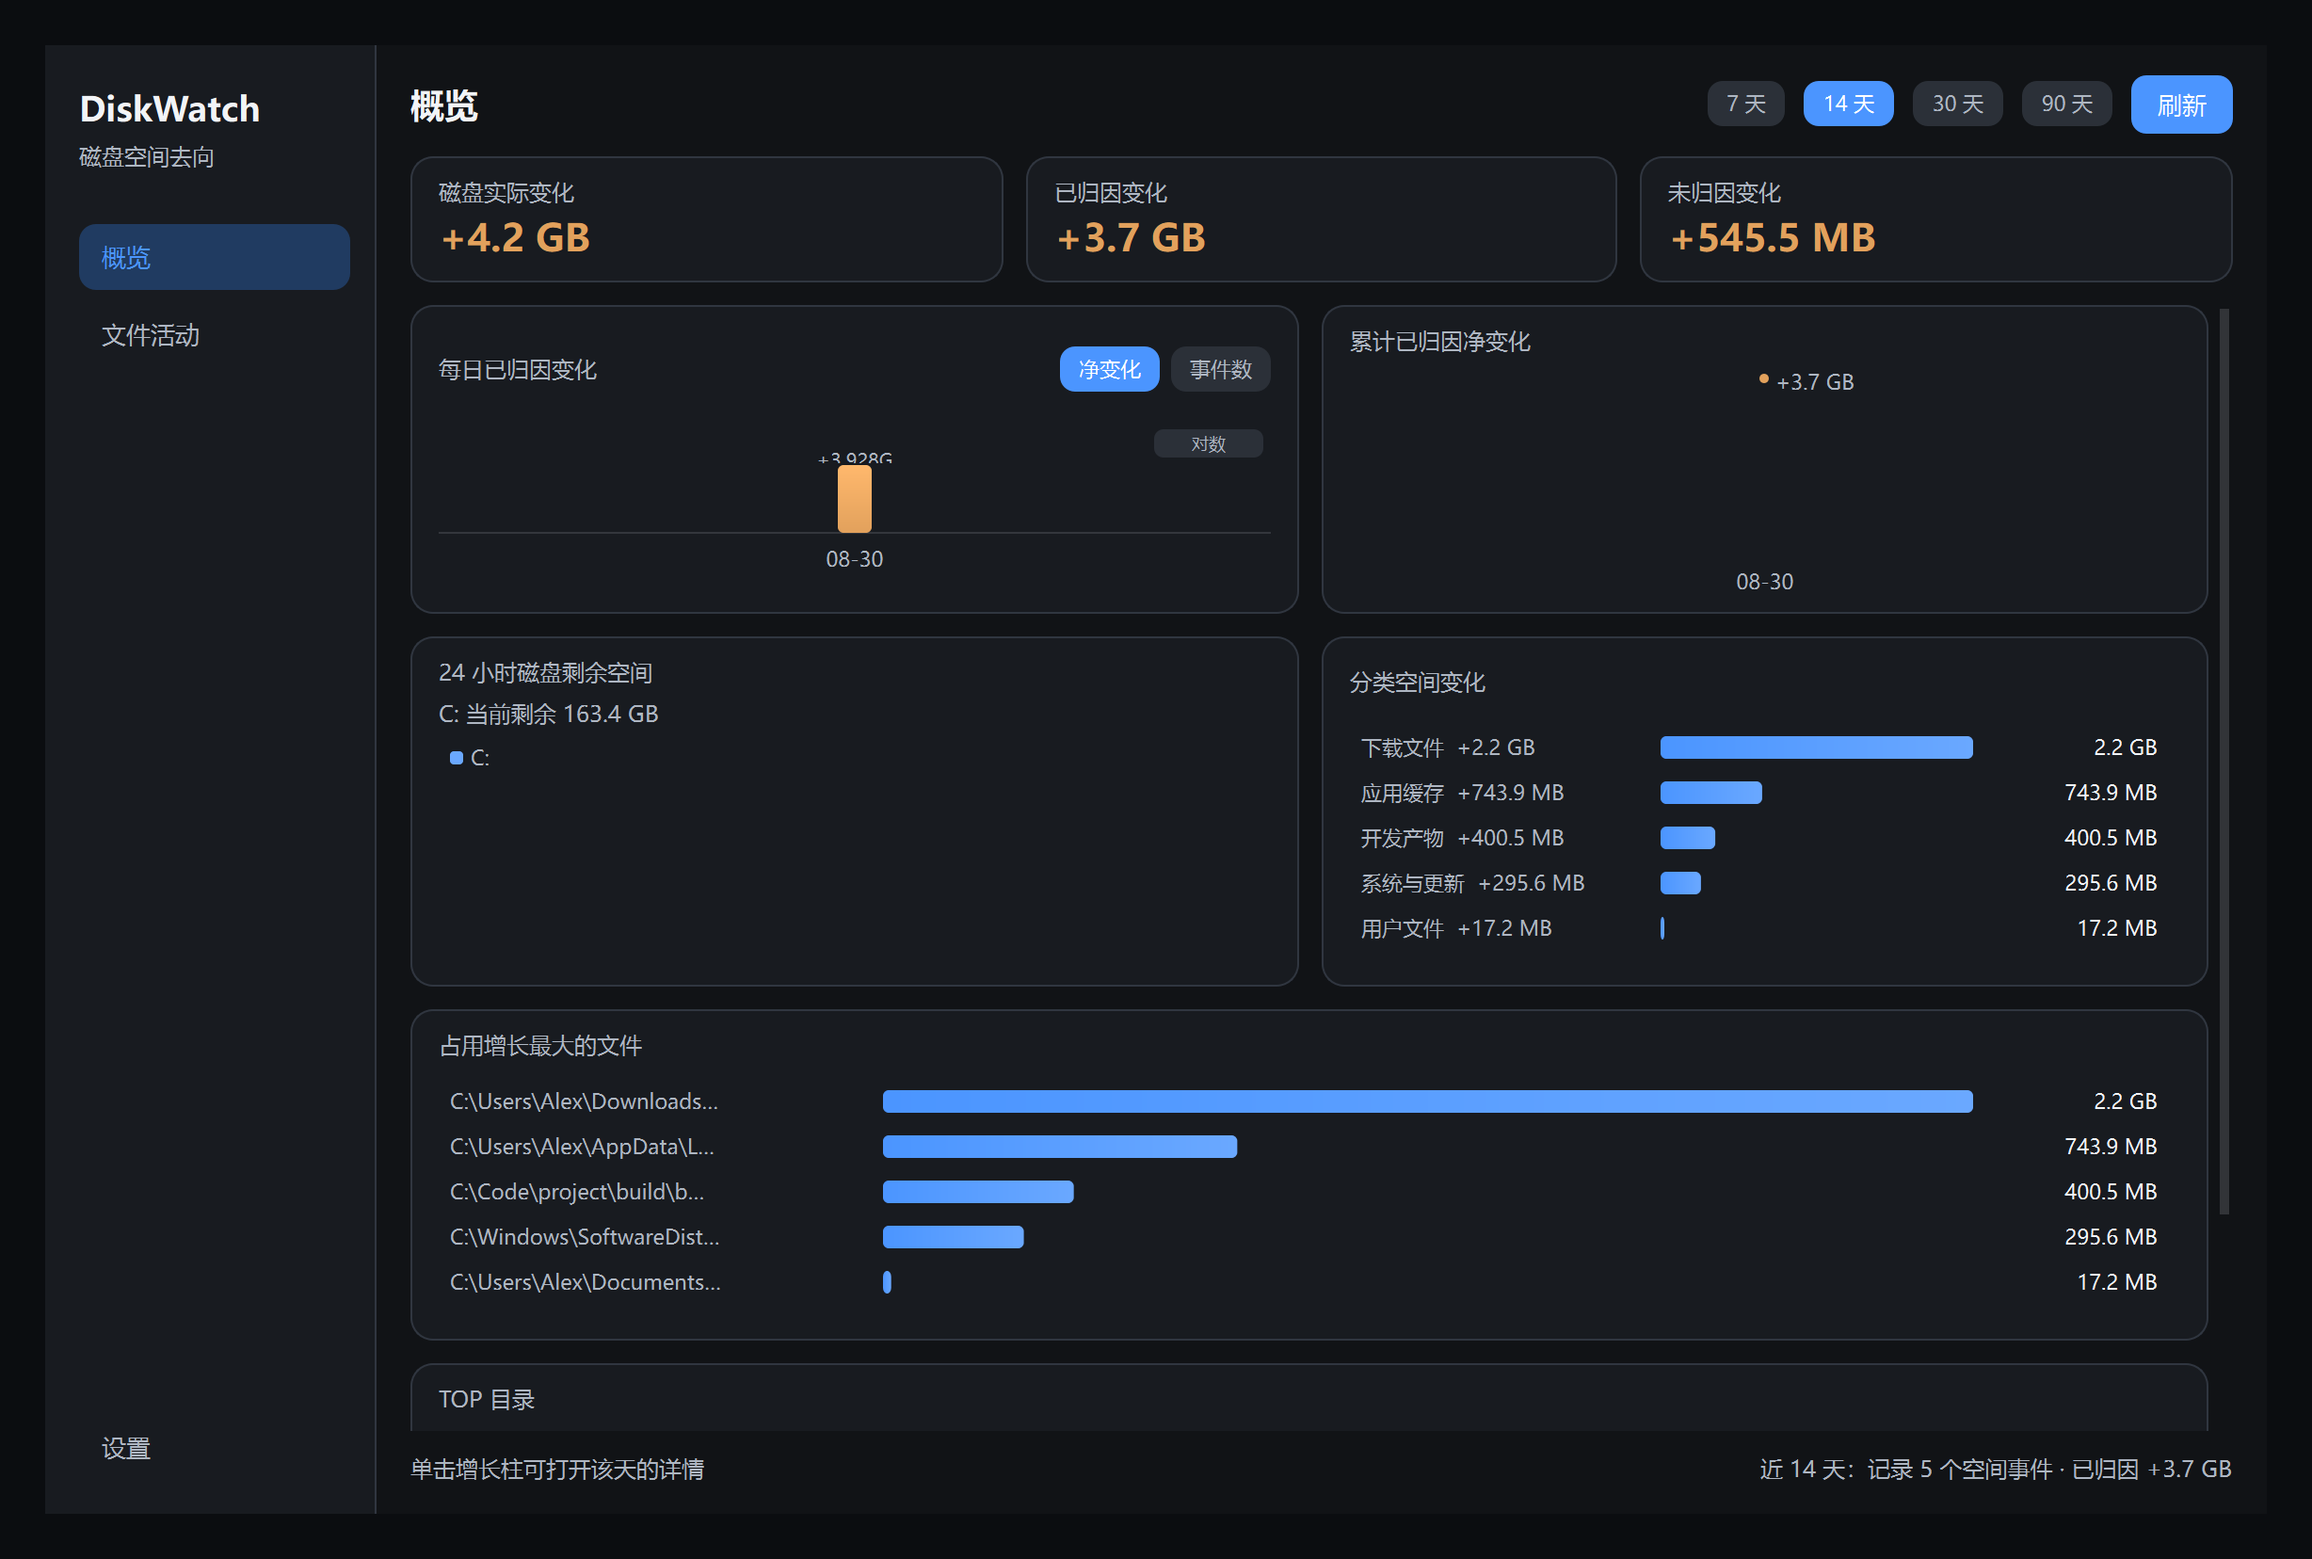
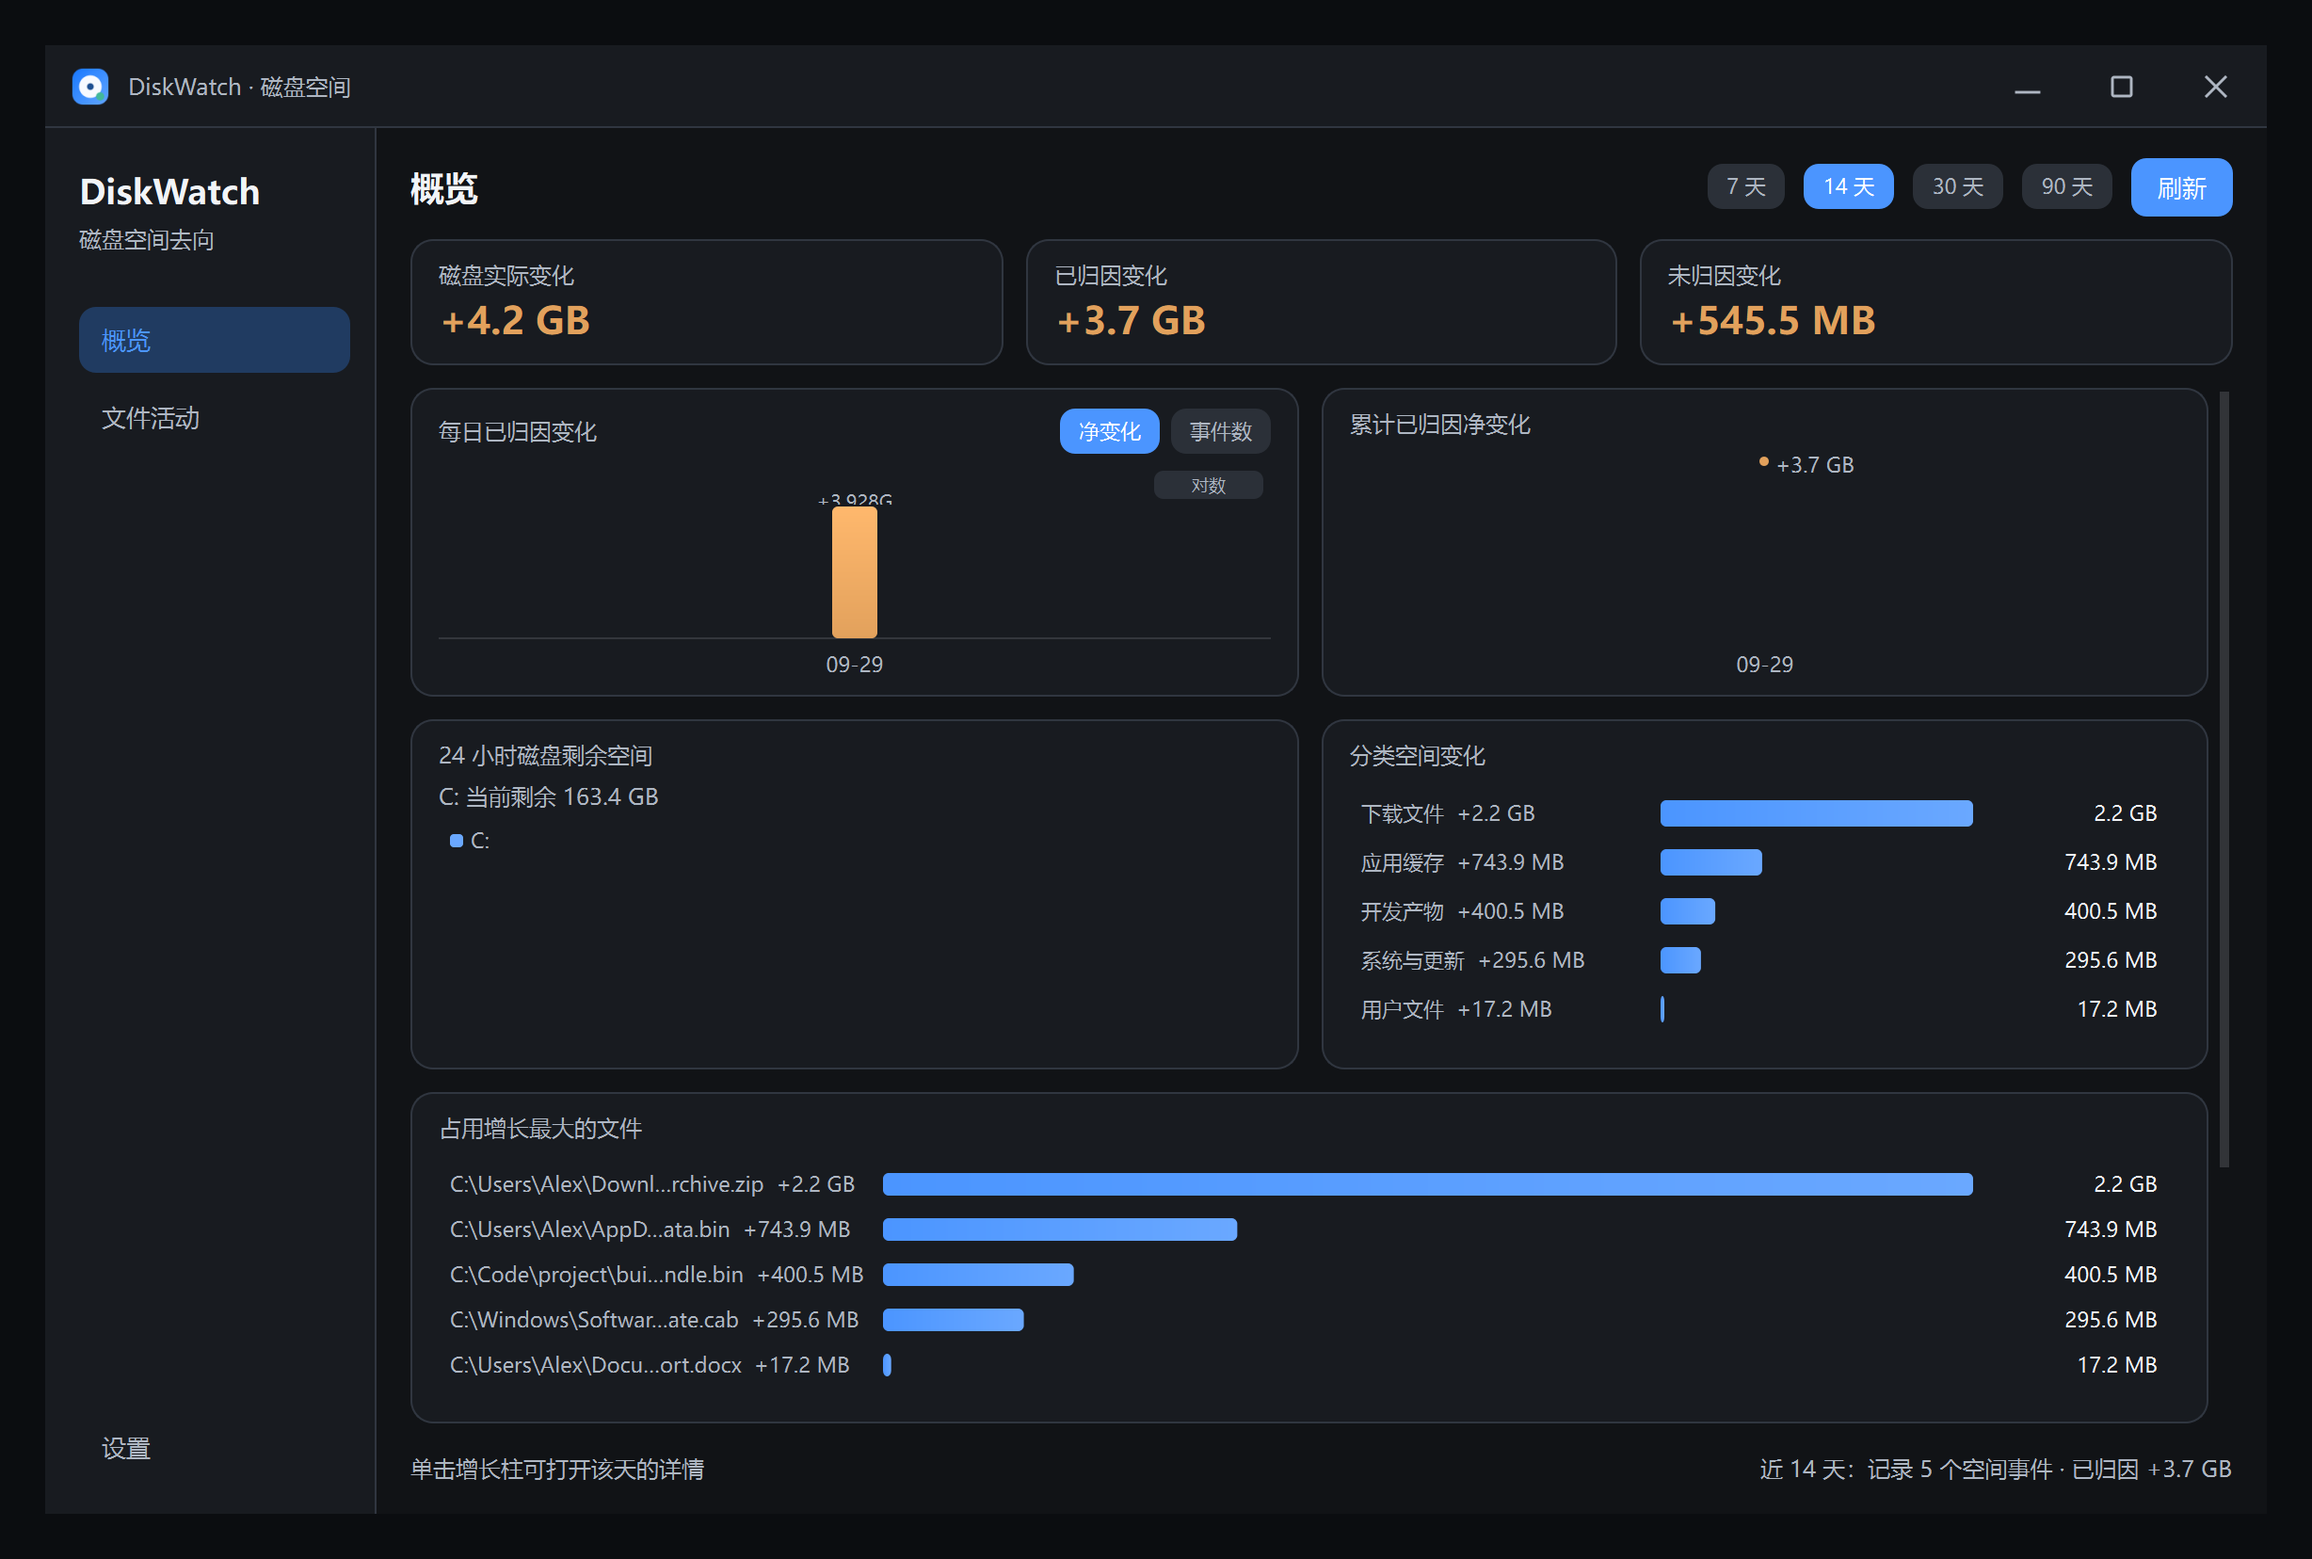
feat: dashboard charts scale with the window
概览页图表此前写死尺寸，窗口放大/最大化后卡片内留大片空白，元素不随
界面放缩。

- TrendChart 去掉 setMaximumHeight（曾被钉死在 CHART_H），改 Expanded
- CumulativeChart / SpaceTrendChart / TopBarsChart 统一双向扩展策略
- TopBarsChart 行高随卡片高度自适应（上限 1.8x，避免过疏）
- 看板网格四行分配拉伸，多余高度平均分给各行而不是留白
- 新增回归测试：图表无写死上限、双向 Expanded、网格有行拉伸、更大窗口
  时图表确实更大

diff --git a/diskwatch/ui/charts.py b/diskwatch/ui/charts.py
@@ -9,7 +9,13 @@ import math
 
 from PySide6.QtCore import QPoint, QRectF, Qt, Signal
 from PySide6.QtGui import QColor, QLinearGradient, QPainter, QPainterPath, QPen
-from PySide6.QtWidgets import QApplication, QPushButton, QToolTip, QWidget
+from PySide6.QtWidgets import (
+    QApplication,
+    QPushButton,
+    QSizePolicy,
+    QToolTip,
+    QWidget,
+)
 
 from ..i18n import tr
 from ..storage import human_size
@@ -19,6 +25,11 @@ TREND_DAYS = 14
 CHART_H = 78
 _PLOT_TOP = 22
 _LABEL_H = 14
+
+
+def _expanding(widget: QWidget) -> None:
+    """让图表随可用空间双向放大/收缩（窗口拉大时元素跟着放缩）。"""
+    widget.setSizePolicy(QSizePolicy.Expanding, QSizePolicy.Expanding)
 
 
 def _compact_size(n: int) -> str:
@@ -86,7 +97,7 @@ class TrendChart(QWidget):
         self._signed = False
         self._btn: QPushButton | None = None  # 惰性创建（无 QApplication 的单元测试不建）
         self.setMinimumHeight(CHART_H)
-        self.setMaximumHeight(CHART_H)
+        _expanding(self)
         self.setMouseTracking(True)
         self.setCursor(Qt.PointingHandCursor)
 
@@ -406,6 +417,7 @@ class CumulativeChart(QWidget):
         self._hover: int = -1
         self._signed = False
         self.setMinimumHeight(120)
+        _expanding(self)
         self.setMouseTracking(True)
 
     def set_days(self, summaries, max_days: int = 90) -> None:
@@ -592,6 +604,7 @@ class SpaceTrendChart(QWidget):
         self._days: list[str] = []  # 全局日期并集（升序）
         self._hover: int = -1
         self.setMinimumHeight(120)
+        _expanding(self)
         self.setMouseTracking(True)
 
     def set_series(self, series: dict[str, list[tuple[str, int]]]) -> None:
@@ -741,6 +754,7 @@ class TopBarsChart(QWidget):
         self._metric = "size"
         self._hover: int = -1
         self.setMinimumHeight(60)
+        _expanding(self)
         self.setMouseTracking(True)
 
     def set_items(self, items: list[tuple[str, int, int]], metric: str = "size") -> None:
@@ -752,8 +766,15 @@ class TopBarsChart(QWidget):
         self.setVisible(bool(self._items))
         self.update()
 
+    def _row_h(self) -> float:
+        """行高随卡片高度自适应：窗口拉大时行也放大（上限避免过疏）。"""
+        n = max(1, len(self._items))
+        available = max(float(self.ROW_H), (self.height() - 12) / n)
+        return min(self.ROW_H * 1.8, available)
+
     def _row_rect(self, i: int) -> QRectF:
-        return QRectF(6, 6 + i * self.ROW_H, self.width() - 12, self.ROW_H - 4)
+        h = self._row_h()
+        return QRectF(6, 6 + i * h, self.width() - 12, h - 4)
 
     def _row_at(self, y: float) -> int:
         # 横向条形图整行命中，只按 y 判区间（与 x 无关）

diff --git a/tests/dashboard_test.py b/tests/dashboard_test.py
@@ -321,3 +321,45 @@ def test_dashboard_day_selected(qapp, tmp_path) -> None:
         panel.close()
     finally:
         s.close()
+
+
+def test_dashboard_charts_scale_with_window(qapp, tmp_path) -> None:
+    """窗口放大时卡片内图表应跟着放大（回归：TrendChart 曾被钉死最大高度）。"""
+    from PySide6.QtWidgets import QSizePolicy
+
+    s = _storage(tmp_path)
+    try:
+        _seed(s)
+        small = DashboardPanel(s)
+        small.resize(960, 620)
+        small.show()
+        large = DashboardPanel(s)
+        large.resize(1720, 1040)
+        large.show()
+        qapp.processEvents()
+
+        for chart in (
+            small._chart_growth,
+            small._chart_cum,
+            small._chart_space,
+            small._chart_exts,
+            small._chart_files,
+            small._chart_folders,
+        ):
+            # 不再有写死的最大高度，且双向可扩展
+            assert chart.maximumHeight() >= 10_000
+            policy = chart.sizePolicy()
+            assert policy.horizontalPolicy() == QSizePolicy.Expanding
+            assert policy.verticalPolicy() == QSizePolicy.Expanding
+
+        # 网格行分配了拉伸，多余高度分给各行而不是留白
+        grid = small._scroll_area.widget().layout()
+        assert all(grid.rowStretch(r) > 0 for r in range(4))
+
+        # 更大的窗口 → 图表更大
+        assert large._chart_growth.width() > small._chart_growth.width()
+        assert large._chart_files.height() > small._chart_files.height()
+        small.close()
+        large.close()
+    finally:
+        s.close()

diff --git a/diskwatch/ui/dashboard.py b/diskwatch/ui/dashboard.py
@@ -188,6 +188,10 @@ class DashboardPanel(QWidget):
         folders_lay.addWidget(self._chart_folders)
         grid.addWidget(folders, 3, 0, 1, 2)
 
+        # 行拉伸：窗口拉大时四行共享多余高度，图表随卡片一起放大，不留白
+        for row in range(4):
+            grid.setRowStretch(row, 1)
+
         self._scroll_area.setWidget(content)
         root.addWidget(self._scroll_area, 1)
 

diff --git a/CHANGELOG.md b/CHANGELOG.md
@@ -4,6 +4,9 @@ All notable changes to DiskWatch are documented in this file.
 
 ## [2.0.6] - 2026-08-30
 
+### Changed
+- 概览图表随窗口等比放大/收缩：柱状图、累计面积、剩余空间折线不再写死高度，横向条形行高自适应，拉大或最大化窗口时卡片内元素填满可用空间
+
 ### Fixed
 - 修复调整悬浮组件透明度后胶囊四角出现系统阴影圆弧的问题：无边框自绘窗不再被套用 DWM 圆角/标题栏属性，并显式声明 NoDropShadowWindowHint 抑制矩形轮廓投影
 - 修复文件活动页偶发沿用初始化分栏宽度、右侧留下大块空白的问题
